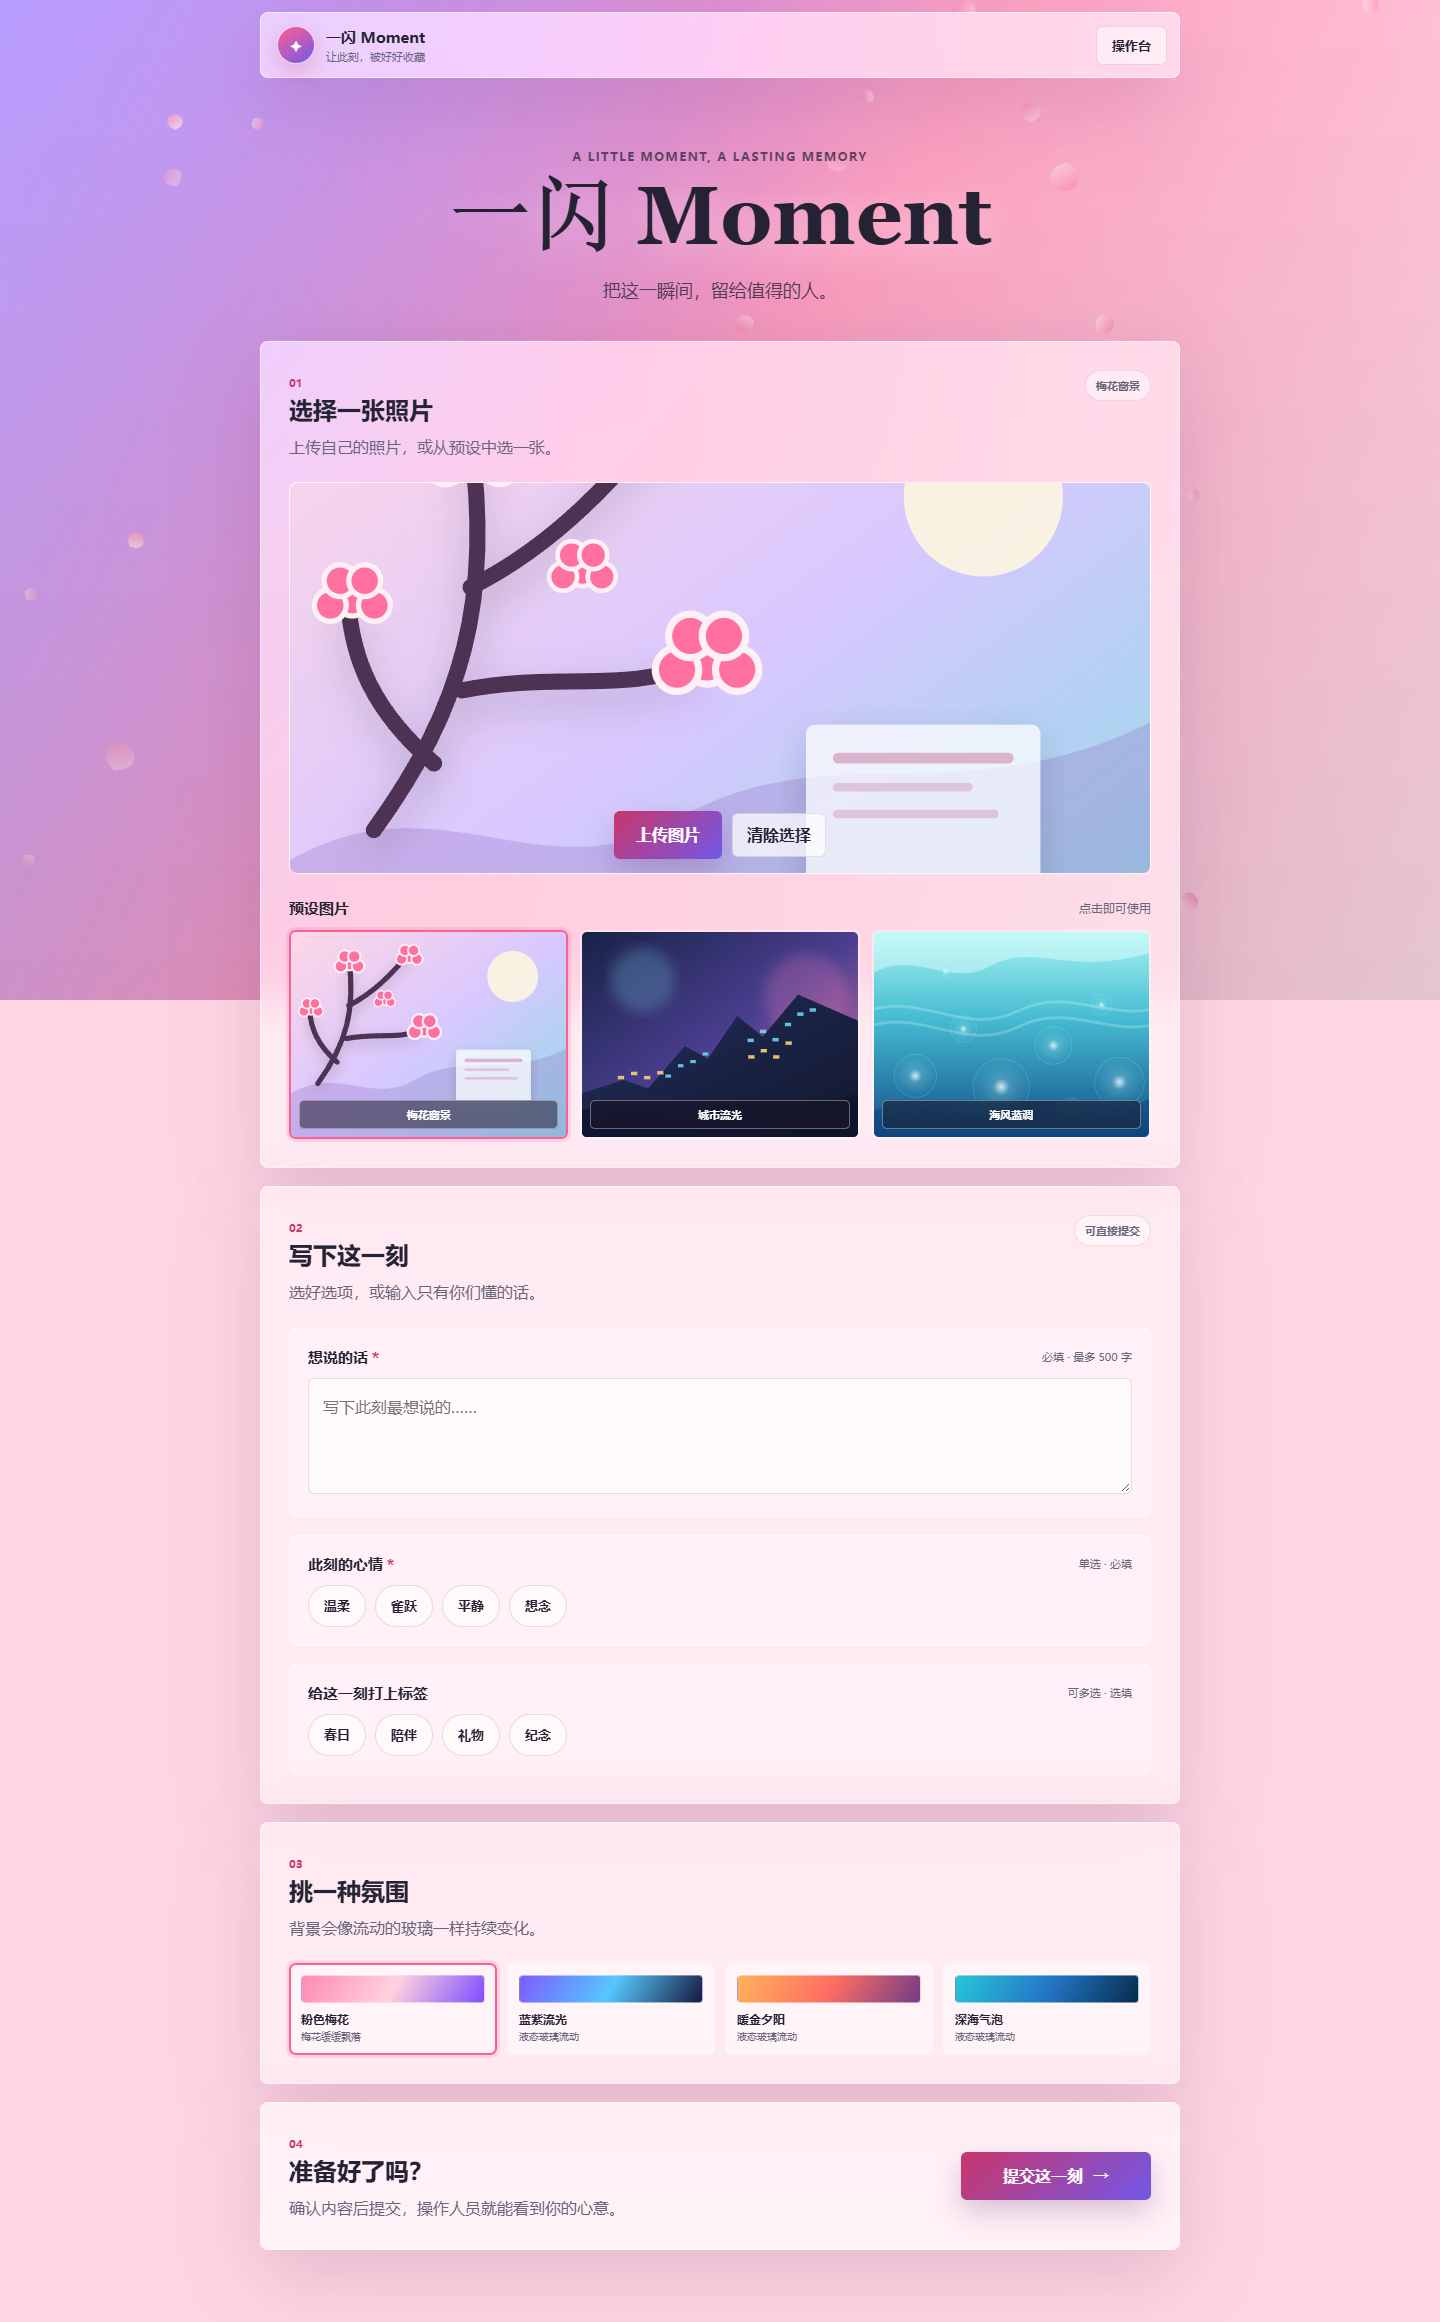
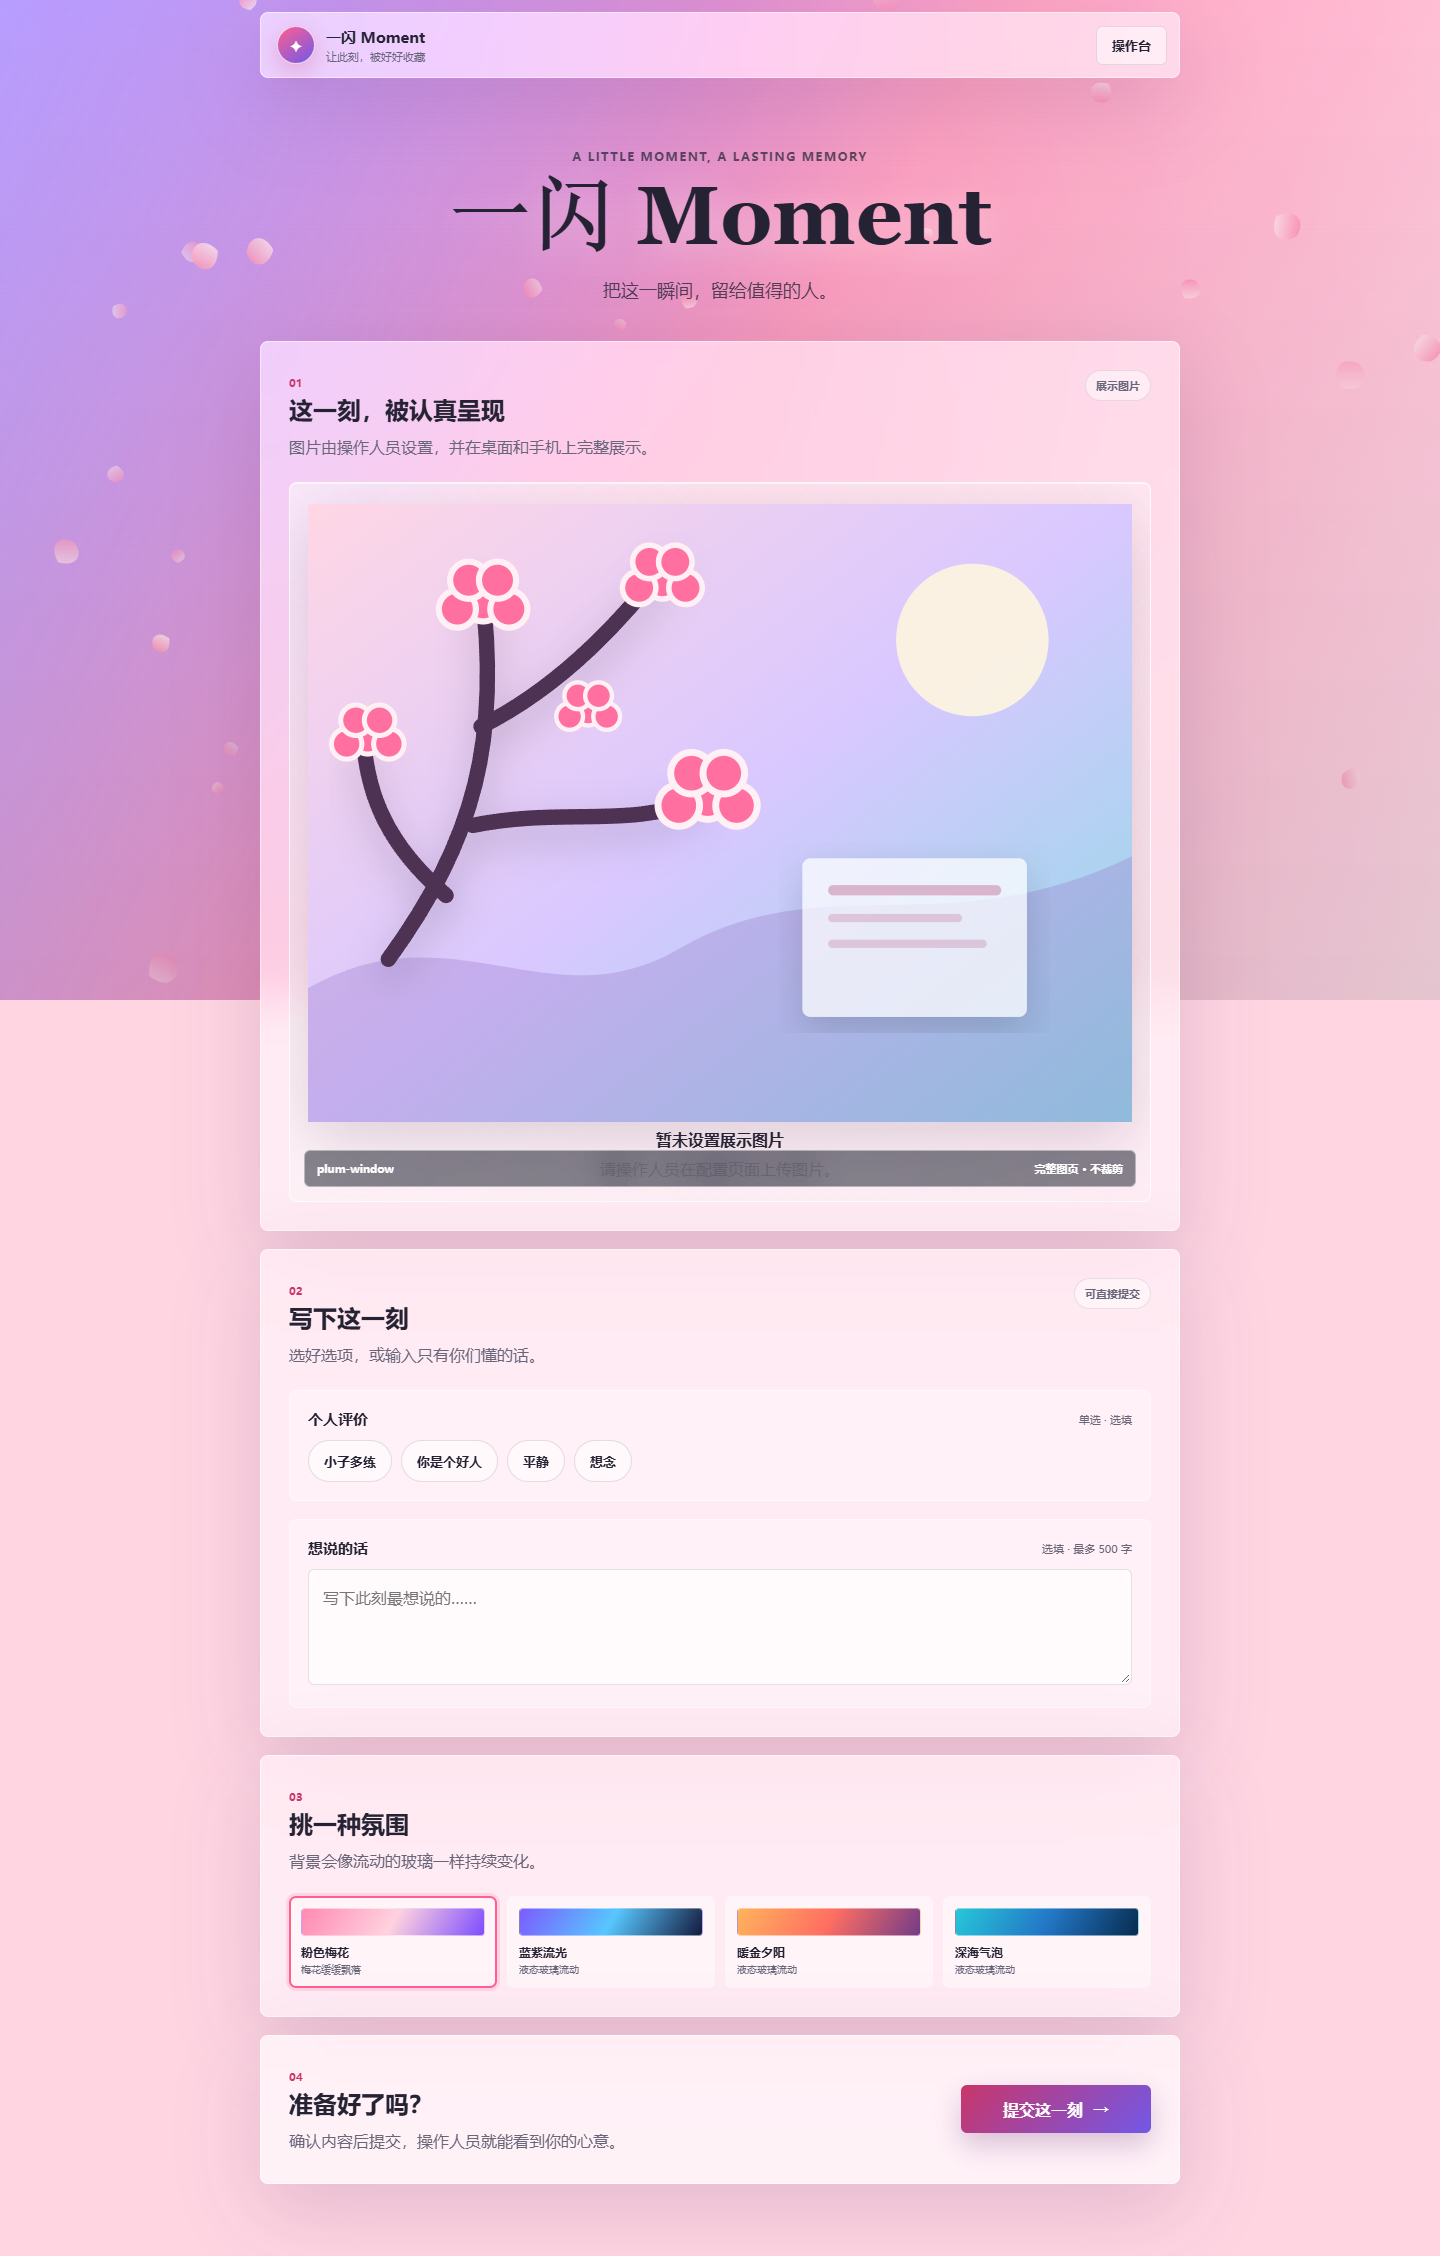
docs: document image and qr improvements

diff --git a/README.md b/README.md
@@ -1,19 +1,21 @@
 # 一闪 Moment
 
-“一闪 Moment”是一个液态玻璃风格的互动提交页面。操作人员可以配置图片、背景、文本栏和选项栏；参与者可以上传图片、选择预设图片、选择选项并填写文字；提交后，操作人员可以在 `/admin` 查看和导出记录。
+“一闪 Moment”是一个液态玻璃风格的互动提交页面。操作人员负责上传并设置展示图片、背景、文本栏和选项栏；参与者只查看完整展示图片、选择选项并填写文字。提交后，操作人员可以在 `/admin` 查看和导出记录。
 
 ## 功能
 
+- 操作人员上传并设置展示图片
+- 参与者页面完整展示图片，桌面和手机均不裁剪、不变形
 - 动态液态玻璃背景
 - 粉色梅花飘落背景
 - 蓝紫流光、暖金夕阳、深海气泡三种备用背景
-- 图片拖拽/点击上传
-- 预设图片选择
 - 可配置文本栏
 - 单选和多选选项栏
 - 提交校验与成功反馈
 - 提交记录查看、关键词筛选、详情展开
 - 提交记录 CSV 导出
+- 自动生成参与者页面二维码
+- 保存高清二维码 PNG
 - 可视化页面配置
 - 桌面端和移动端响应式布局
 
@@ -38,21 +40,46 @@ npm start
 npm test
 ```
 
-测试覆盖数据存储、提交校验、上传 API、提交 API、CSV 导出和页面结构。
+测试覆盖数据存储、提交校验、上传 API、二维码 PNG API、提交 API、CSV 导出和页面结构。
 
-## 页面配置
+## 操作人员使用方法
 
-访问 `http://localhost:3000/admin/edit`，可以修改：
+访问 `http://localhost:3000/admin/edit`：
 
-- 页面标题和说明
-- 默认背景
-- 是否强制选择图片
-- 预设图片名称、地址和顺序
-- 文本栏标题、占位文字、最大字数、是否必填
-- 选项栏标题、单选/多选、选项内容、是否必填
-- 字段和图片的上移、下移、删除
+1. 修改页面标题、说明和默认背景。
+2. 上传展示图片，或添加图片链接。
+3. 在图片编辑器中点击 **设为展示图**。
+4. 添加、删除或排序文本栏和选项栏。
+5. 点击 **保存配置**。
+6. 点击 **生成二维码**。
+7. 点击 **保存二维码**，下载 `yishan-moment-qr.png`。
 
-保存后，参与者页面会立即使用新配置。
+参与者页面不再提供图片上传或图片选择。参与者只能看到操作人员设置的图片，并填写文本和选项。
+
+## 图片展示规则
+
+- 展示图片使用 `object-fit: contain`。
+- 图片完整显示，不使用裁剪模式。
+- 图片按原始比例等比缩放。
+- 图片区域在桌面端和移动端自适应，不产生横向溢出。
+- 操作人员可在配置页更换展示图片。
+
+## 二维码
+
+二维码自动使用当前访问地址并指向参与者首页：
+
+- 本地运行：`http://localhost:3000/`
+- Railway 部署：`https://你的域名/`
+
+二维码由项目本地的 `qrcode` 依赖生成，不调用第三方二维码 API。
+
+新增接口：
+
+```text
+GET /api/qr.png?text=<encoded-url>
+```
+
+服务端只接受 `http` 和 `https` 地址，并返回高清 PNG。
 
 ## 提交数据
 
@@ -60,9 +87,9 @@ npm test
 
 - `data/config.json`：页面配置
 - `data/submissions.json`：提交记录
-- `uploads/`：参与者和操作人员上传的图片
+- `uploads/`：操作人员上传的图片
 
-演示版适合本地体验和小规模测试。Railway 的免费/临时文件系统可能在重新部署或实例重启后重置上传文件和运行数据；正式生产环境建议后续迁移至 PostgreSQL 和云对象存储。
+演示版适合本地体验和小规模测试。Railway 的临时文件系统可能在重新部署或实例重启后重置上传文件和运行数据；正式生产环境建议后续迁移至 PostgreSQL 和云对象存储。
 
 ## 部署到 Railway
 
@@ -79,11 +106,7 @@ git remote add origin https://github.com/你的用户名/你的仓库名.git
 git push -u origin main
 ```
 
-如果你使用本项目已有 Git 历史，可直接推送当前分支：
-
-```bash
-git push -u origin codex/yishan-moment
-```
+如果你使用本项目已有 Git 历史，可直接推送当前分支。
 
 ### 2. 创建 Railway 项目
 
@@ -107,8 +130,6 @@ Railway 默认提供 `PORT` 环境变量，服务会自动监听：
 const port = Number(process.env.PORT) || 3000;
 ```
 
-无需手动添加端口设置。
-
 ### 4. 可选环境变量
 
 | 变量 | 作用 | 默认值 |
@@ -122,14 +143,13 @@ const port = Number(process.env.PORT) || 3000;
 - 参与者页面：Railway 提供的根域名
 - 管理页面：`https://你的域名/admin`
 - 配置页面：`https://你的域名/admin/edit`
+- 二维码自动编码：`https://你的域名/`
 
 ## 目录结构
 
 ```text
 .
 ├── data/
-│   ├── config.json
-│   └── submissions.json
 ├── public/
 │   ├── admin-edit.html
 │   ├── admin-edit.js
@@ -139,11 +159,8 @@ const port = Number(process.env.PORT) || 3000;
 │   ├── app.js
 │   ├── backgrounds.js
 │   ├── index.html
-│   ├── presets/
 │   └── styles.css
 ├── lib/
-│   ├── store.js
-│   └── validate.js
 ├── tests/
 ├── uploads/
 ├── server.js
@@ -157,4 +174,5 @@ const port = Number(process.env.PORT) || 3000;
 - 接入 Railway PostgreSQL，持久化配置和提交记录。
 - 接入 S3/R2/Cloudinary，持久化上传图片。
 - 增加管理员认证，保护 `/admin` 与 `/admin/edit`。
+- 增加二维码颜色、Logo、扫描次数统计和短链接。
 - 增加提交通知、批量删除、标签统计和高级筛选。

diff --git a/UI-TEST-REPORT.md b/UI-TEST-REPORT.md
@@ -1,43 +1,58 @@
-# 一闪 Moment 本地界面与功能测试报告
+# 一闪 Moment 图片展示与二维码改进测试报告
 
-测试时间：2026-11-04  
+测试时间：2026-11-05  
 测试方式：本地 Node.js 服务 + Microsoft Edge 无头浏览器自动化
 
 ## 测试结果
 
 | 项目 | 结果 |
 | --- | --- |
-| 参与者页面加载 | 通过 |
-| 预设图片显示与切换 | 通过，3 个预设 |
-| 图片上传 | 通过 |
-| 文本栏输入 | 通过 |
-| 单选选项 | 通过 |
-| 多选选项 | 通过 |
-| 背景切换 | 通过，4 个主题 |
-| 提交保存 | 通过 |
-| 管理页显示提交 | 通过 |
-| 关键词筛选 | 通过 |
-| 详情展开 | 通过 |
-| CSV 导出 | 通过 |
-| 页面配置保存 | 通过 |
-| 移动端 390px 宽度 | 通过，无横向溢出 |
+| 参与者页面不显示图片上传控件 | 通过 |
+| 参与者页面不显示预设图片选择 | 通过 |
+| 操作人员上传展示图片 | 通过 |
+| 操作人员设置当前展示图 | 通过 |
+| 展示图唯一标记 | 通过 |
+| 提交记录保存当前展示图 | 通过 |
+| 320px 完整图片展示 | 通过，无横向溢出 |
+| 390px 完整图片展示 | 通过，无横向溢出 |
+| 768px 完整图片展示 | 通过，无横向溢出 |
+| 1440px 完整图片展示 | 通过，无横向溢出 |
+| 图片显示模式 | `object-fit: contain` |
+| 二维码自动生成 | 通过 |
+| 二维码地址 | `http://127.0.0.1:3123/` |
+| 二维码保存 | 通过，文件名 `yishan-moment-qr.png` |
+| 二维码识别 | 通过，可解码出完整地址 |
+| 提交、管理筛选 | 通过 |
 | 浏览器控制台错误 | 无 |
 
-## 自动化覆盖
+## 响应式检查
 
-- `participant-desktop.png`：桌面端参与者页面
-- `participant-mobile.png`：移动端参与者页面
-- `admin-submissions.png`：提交记录页面
-- `admin-editor.png`：页面配置页面
-- `submissions.csv`：管理页导出的测试 CSV
+| 宽度 | 页面 scrollWidth | 图片模式 | 图片控件 |
+| --- | --- | --- | --- |
+| 320px | 320px | contain | 0 |
+| 390px | 390px | contain | 0 |
+| 768px | 768px | contain | 0 |
+| 1440px | 1440px | contain | 0 |
+
+## 自动化产物
+
+- `participant-320.png`：320px 参与者页面
+- `participant-mobile.png`：390px 参与者页面
+- `participant-tablet.png`：768px 参与者页面
+- `participant-desktop.png`：1440px 参与者页面
+- `admin-qr.png`：操作台展示图与二维码界面
+- `admin-submissions.png`：提交记录界面
+- `yishan-moment-qr.png`：保存的 1024 × 1024 二维码
 
 ## 截图资源检查
 
-- 参与者桌面端截图：1440 × 2322，采样到 214 种颜色
-- 参与者移动端截图：390 × 2544，采样到 200 种颜色
-- 提交管理截图：1440 × 1000，采样到 46 种颜色
-- 页面配置截图：1440 × 2792，采样到 84 种颜色
+- 320px 页面：320 × 2311，采样到 189 种颜色
+- 390px 页面：390 × 2331，采样到 214 种颜色
+- 768px 页面：768 × 1915，采样到 242 种颜色
+- 1440px 页面：1440 × 2256，采样到 233 种颜色
+- 操作台二维码界面：1440 × 3167，采样到 90 种颜色
+- 二维码 PNG：1024 × 1024，可被二维码识别器解码
 
 ## 测试结论
 
-本地界面、上传、提交、查看、筛选、CSV 导出和配置保存均正常；桌面与手机布局未发现横向溢出或浏览器脚本错误。
+参与者页面已改为纯展示模式，完整图片在桌面和移动端均不裁剪、不产生横向溢出。操作人员可以上传并指定展示图，生成和保存当前站点参与者首页二维码。自动化浏览器测试、二维码解码和功能测试全部通过。
